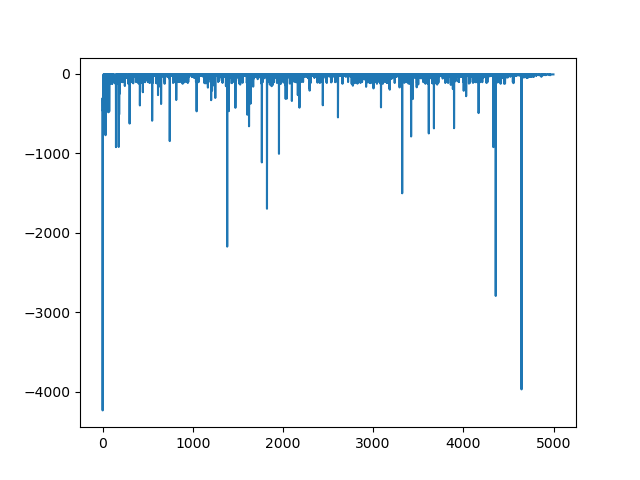
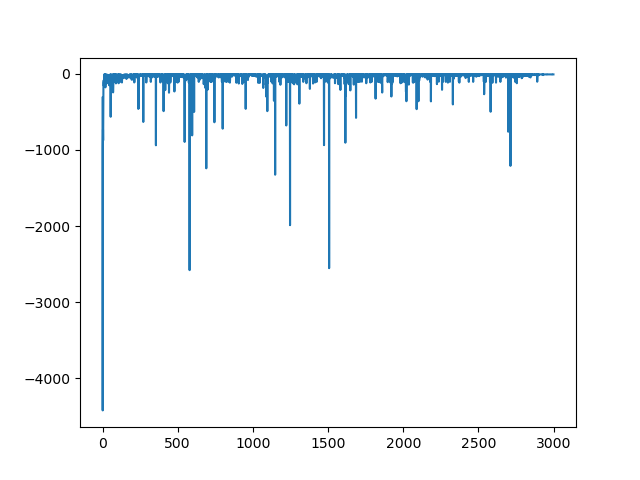
REINFORCE agent

diff --git a/utils.py b/utils.py
@@ -6,7 +6,8 @@ from mpl_toolkits.axes_grid1 import make_axes_locatable
 from matplotlib import animation
 
 from envs import SmallGridEnv, BigGridEnv, UnistEnv
-from agents import MCAgent, SARSAAgent, QlearningAgent, DoubleQlearningAgent, LinearApprox, ActorCritic
+from agents import MCAgent, SARSAAgent, QlearningAgent, DoubleQlearningAgent, \
+    LinearApprox, REINFORCE, ActorCritic
 
 
 def str2bool(v):
@@ -48,6 +49,8 @@ def get_agent(args,
                                     gamma=args.gamma, seed=args.seed)
     elif agent_name == "LinearApprox":
         return LinearApprox(n_state, n_action, epsilon=args.epsilon, alpha=args.alpha, gamma=args.gamma, seed=args.seed)
+    elif agent_name == "REINFORCE":
+        return REINFORCE(n_state, n_action, lr=args.lr, gamma=args.gamma)
     elif agent_name == "ActorCritic":
         return ActorCritic(n_state, n_action, lr=args.lr, gamma=args.gamma)
     else:
@@ -121,24 +124,33 @@ def run_algorithm(args,
 
             agent.update_alpha((1 - (e_idx + 1) / args.n_episode) * 0.5)
             agent.update_epsilon((1 - (e_idx + 1) / args.n_episode) * 0.5)
+    elif agent_name == "REINFORCE":
+        for n_epi in episode:
+            state = env.reset()
+            state = agent.featurize_state(state)
+            done = False
+            while not done:
+                action, prob = agent.get_action(state)
+                prob = prob.squeeze()
+                next_state, reward, done, _ = env.step(action)
+                next_state = agent.featurize_state(next_state)
+                agent.save((reward, prob[action]))
+                state = next_state
+                episode_rewards[n_epi] += reward
+            agent.update()
     elif agent_name == "ActorCritic":
         for n_epi in episode:
             state = env.reset()
             state = agent.featurize_state(state)
-            action = agent.get_action(state)
             done = False
             while not done:
                 for t in range(args.update_step):
+                    action = agent.get_action(state)
                     next_state, reward, done, _ = env.step(action)
                     next_state = agent.featurize_state(next_state)
-                    next_action = agent.get_action(next_state)
                     agent.save((state, action, reward, next_state, done))
-                    episode_rewards[n_epi] += reward
-
                     state = next_state
-                    action = next_action
-                    if args.step_ghost:
-                        env.step_ghost()
+                    episode_rewards[n_epi] += reward
                     if done:
                         break
                 agent.update()
@@ -337,14 +349,22 @@ def make_animation(args,
     while not done:
         frame = visualize_matrix(eval_env.world, title=args.env + '_' + args.agent)
         frames.append(frame)
-        if "Approx" in args.agent:
-            action = agent.get_action(agent.featurize_state(state), test=True)
-        else:
+        if "Agent" in args.agent:
             action = agent.get_action(state)
+        else:
+            if args.agent == "LinearApprox":
+                action = agent.get_action(agent.featurize_state(state), test=True)
+            elif args.agent == "REINFORCE":
+                action, prob = agent.get_action(agent.featurize_state(state))
+            elif args.agent == "ActorCritic":
+                action = agent.get_action(agent.featurize_state(state))
         state, reward, done, _ = eval_env.step(action)
         ep_ret += reward
         ep_len += 1
         if args.step_ghost:
             eval_env.step_ghost()
+        if ep_len > 1000:
+            print("Too many frames (maybe infinite loop)")
+            break
     display_frames_as_gif(frames, save_path)
     print("animation creation is completed.")

diff --git a/agents.py b/agents.py
@@ -209,6 +209,60 @@ class LinearApprox(object):
         self.alpha = np.min([alpha, 0.01])
 
 
+class REINFORCE(nn.Module):
+    def __init__(self, n_state, n_action, lr=0.0002, gamma=0.999):
+        super(REINFORCE, self).__init__()
+        self.gamma = gamma
+        self.set_featurizer(n_state)
+        self.linear_1 = nn.Linear(40, 128)
+        self.linear_2 = nn.Linear(128, n_action)
+        self.optimizer = optim.Adam(self.parameters(), lr=lr)
+        self.data = []
+
+    def set_featurizer(self, n_state):
+        obs_space = spaces.Discrete(n_state)
+        observation_examples = np.expand_dims(np.array([obs_space.sample() for _ in range(10**4)]), -1)
+        self.scaler = sklearn.preprocessing.StandardScaler()
+        self.scaler.fit(observation_examples)
+        self.featurizer = sklearn.pipeline.FeatureUnion([
+            ("rbf1", RBFSampler(gamma=5.0, n_components=10)),
+            ("rbf2", RBFSampler(gamma=2.0, n_components=10)),
+            ("rbf3", RBFSampler(gamma=1.0, n_components=10)),
+            ("rbf4", RBFSampler(gamma=0.5, n_components=10))
+        ])
+        self.featurizer.fit(self.scaler.transform(observation_examples))
+
+    def featurize_state(self, state):
+        scaled = self.scaler.transform(np.expand_dims([state], -1))
+        featurized = self.featurizer.transform(scaled)
+        return featurized
+
+    def policy(self, state):
+        x = F.relu(self.linear_1(state))
+        prob = F.softmax(self.linear_2(x), dim=0)
+        return prob
+
+    def get_action(self, state):
+        prob = self.policy(torch.from_numpy(state).float())
+        dist = Categorical(prob)
+        action = dist.sample()
+        return action.item(), prob
+
+    def save(self, item):
+        self.data.append(item)
+
+    def update(self):
+        G = 0
+        self.optimizer.zero_grad()
+        for reward, prob in self.data[::-1]:
+            G = reward + self.gamma * G
+            loss = - torch.log(prob) * G
+            loss.backward()
+        self.optimizer.step()
+        self.data = []
+
+
+# Not implemented yet
 class ActorCritic(nn.Module):
     def __init__(self, n_state, n_action, lr=0.0002, gamma=0.999):
         super(ActorCritic, self).__init__()
@@ -244,7 +298,7 @@ class ActorCritic(nn.Module):
         x = F.relu(self.shared_layer(state))
         x = self.policy_layer(x)
         prob = F.softmax(x, dim=softmax_dim)
-        return Categorical(prob)
+        return Categorical(prob.squeeze())
 
     def get_action(self, state):
         dist = self.policy(torch.from_numpy(state).float())

diff --git a/run.py b/run.py
@@ -14,7 +14,7 @@ def get_arguments():
     # Agent
     parser.add_argument('-agent', type=str, default='MCAgent',
                         choices=['MCAgent', 'SARSAAgent', 'QlearningAgent', 'DoubleQlearningAgent',
-                                 'LinearApprox', 'ActorCritic'])
+                                 'LinearApprox', 'REINFORCE', 'ActorCritic'])
     parser.add_argument('-epsilon', type=float, default=1.0)
     parser.add_argument('-alpha', type=float, default=0.1)
     parser.add_argument('-gamma', type=float, default=0.995)
